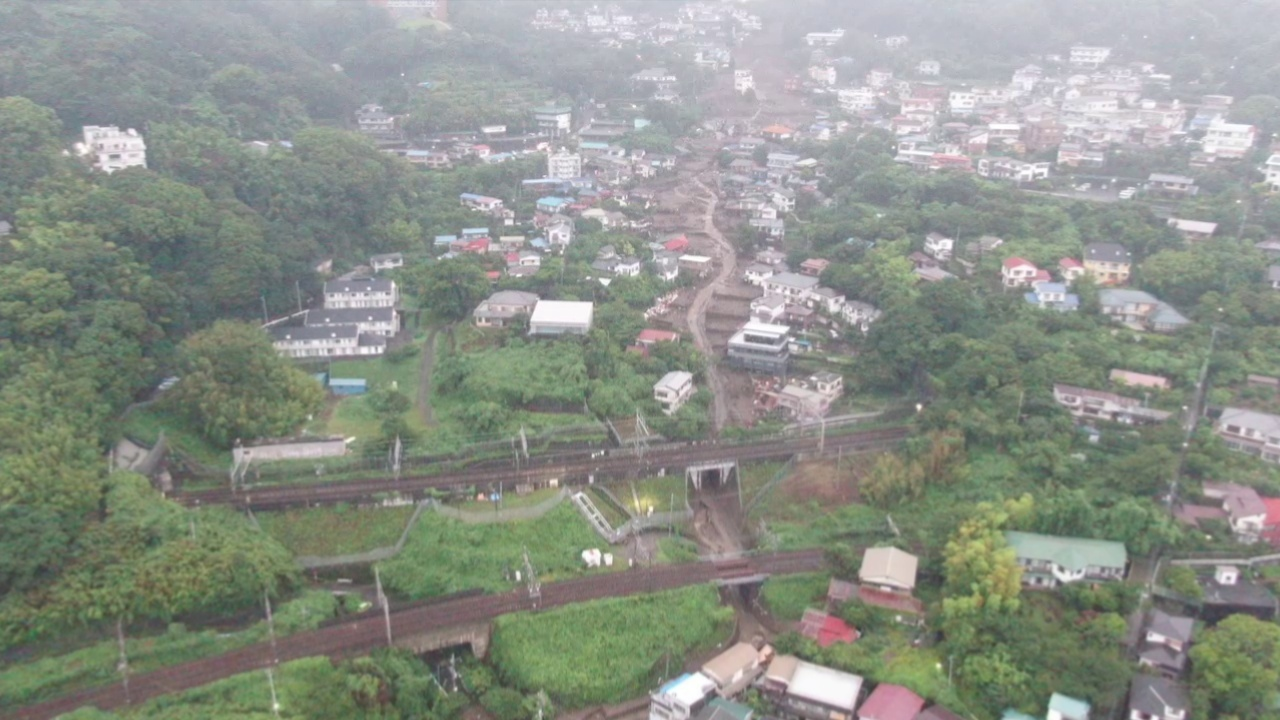
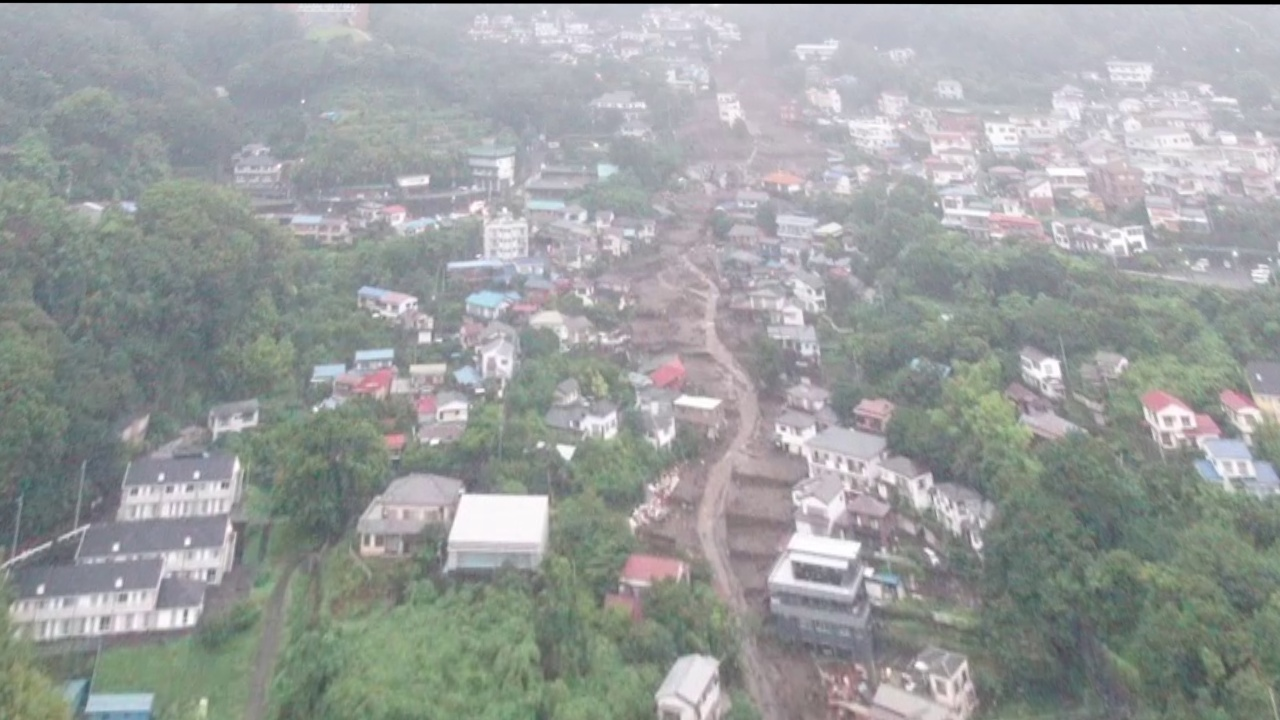
Warped.pyに修正、VideoFrame_Registration.pyにはまだ適用していない

diff --git a/FeatureMatching.py b/FeatureMatching.py
@@ -3,7 +3,7 @@ import cv2
 # 画像読み込み
 img01 = cv2.imread('../atami_frame/result_frame_img_3840.jpg')
 img01 = cv2.cvtColor(img01, cv2.COLOR_BGR2RGB)
-img02 = cv2.imread('../atami_frame/result_frame_img_3841.jpg')
+img02 = cv2.imread('../atami_frame/result_frame_img_4140.jpg')
 img02 = cv2.cvtColor(img02, cv2.COLOR_BGR2RGB)
 
 # キーポイントの検出と特徴の記述
@@ -29,5 +29,6 @@ matches_img = cv2.drawMatchesKnn(
     good_matches,
     None,
     flags=cv2.DrawMatchesFlags_NOT_DRAW_SINGLE_POINTS)
+matches_img = cv2.cvtColor(matches_img, cv2.COLOR_RGB2BGR)
 
 cv2.imwrite('img/result/result_matches_01.jpg', matches_img)

diff --git a/Warped.py b/Warped.py
@@ -2,9 +2,9 @@ import numpy as np
 import cv2
 
 # 画像読み込み
-img01 = cv2.imread('../atami_frame/result_frame_img_3840.jpg')
+img01 = cv2.imread('../atami_frame/result_frame_img_4830.jpg')
 img01 = cv2.cvtColor(img01, cv2.COLOR_BGR2RGB)
-img02 = cv2.imread('../atami_frame/result_frame_img_3841.jpg')
+img02 = cv2.imread('../atami_frame/result_frame_img_3840.jpg')
 img02 = cv2.cvtColor(img02, cv2.COLOR_BGR2RGB)
 
 # キーポイントの検出と特徴の記述

diff --git a/VideoFrame_Registration.py b/VideoFrame_Registration.py
@@ -3,7 +3,7 @@ import cv2
 
 def main():
     cv2.imwrite('img/result/result_warped.jpg', 
-        FeatureMatching_And_Warped('../atami_frame/result_frame_img_', 3840, 3845, 1))
+        FeatureMatching_And_Warped('../atami_frame/result_frame_img_', 3840, 4740, 900))
 
 
 # 再帰的にSIFTによる特徴点記述とマッチングを行う関数
